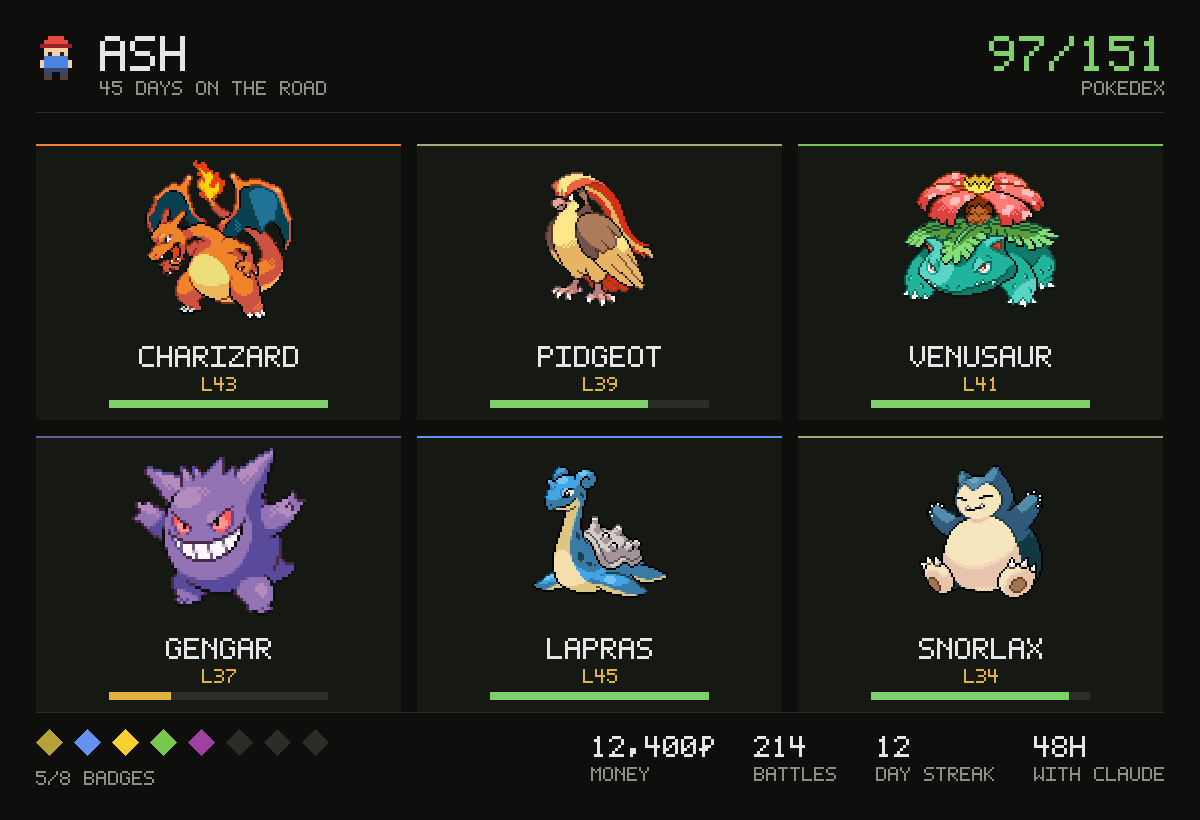
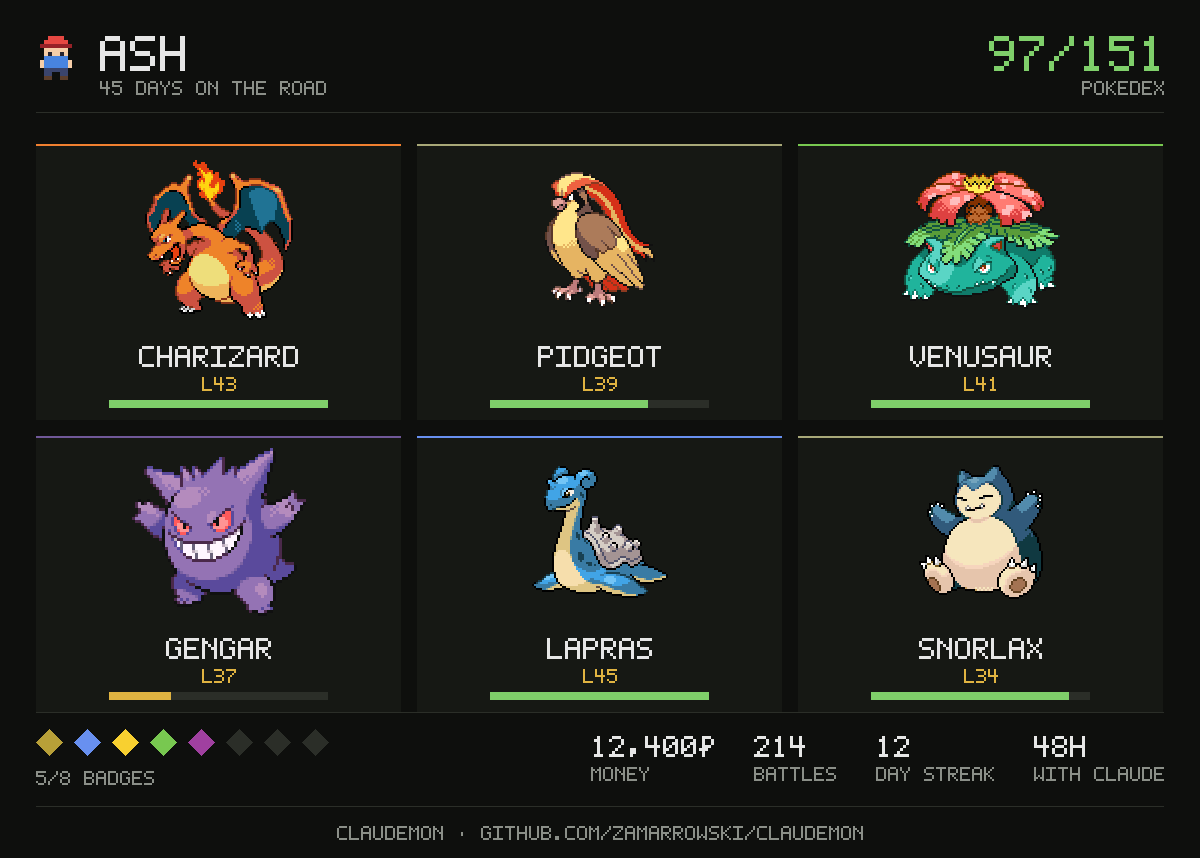
card: say where it came from, and open it when it is written
A card gets shared, and whoever sees it has no way back to the project
from a picture. So the bottom of it now carries the name and the repo,
dim enough to stay out of the way of the team.

Writing it also opens it in whatever the desktop shows PNGs in — open,
explorer.exe or xdg-open, spawned detached so the terminal comes straight
back and a missing opener is nothing more than silence. --no-open leaves
the window shut for anything driving this from a script.

diff --git a/README.md b/README.md
@@ -219,10 +219,14 @@ battle message. That is the whole scheme — it is the same everywhere.
 claudemon card
 ```
 
-Writes `~/.claudemon/card.png`: your six, drawn at the size they deserve, over your
-name, the days you have been at it, the badges in the colour of the type that gave
-them, and the hours Claude has spent working while you played. `--out somewhere.png`
-puts it elsewhere.
+Writes `~/.claudemon/card.png` and opens it in whatever your desktop shows PNGs in —
+Preview, the Photos viewer, an image viewer on Linux. Your six, drawn at the size
+they deserve, over your name, the days you have been at it, the badges in the colour
+of the type that gave them, and the hours Claude has spent working while you played.
+It says where it came from along the bottom, so the picture carries its own link.
+
+`--out somewhere.png` writes it elsewhere, and `--no-open` leaves the window shut,
+which is what you want from a script.
 
 ![The trainer card: six Pokémon in two rows of three, each with its name, level and
 health, under the trainer name and the Pokédex count, with the eight badges and the
